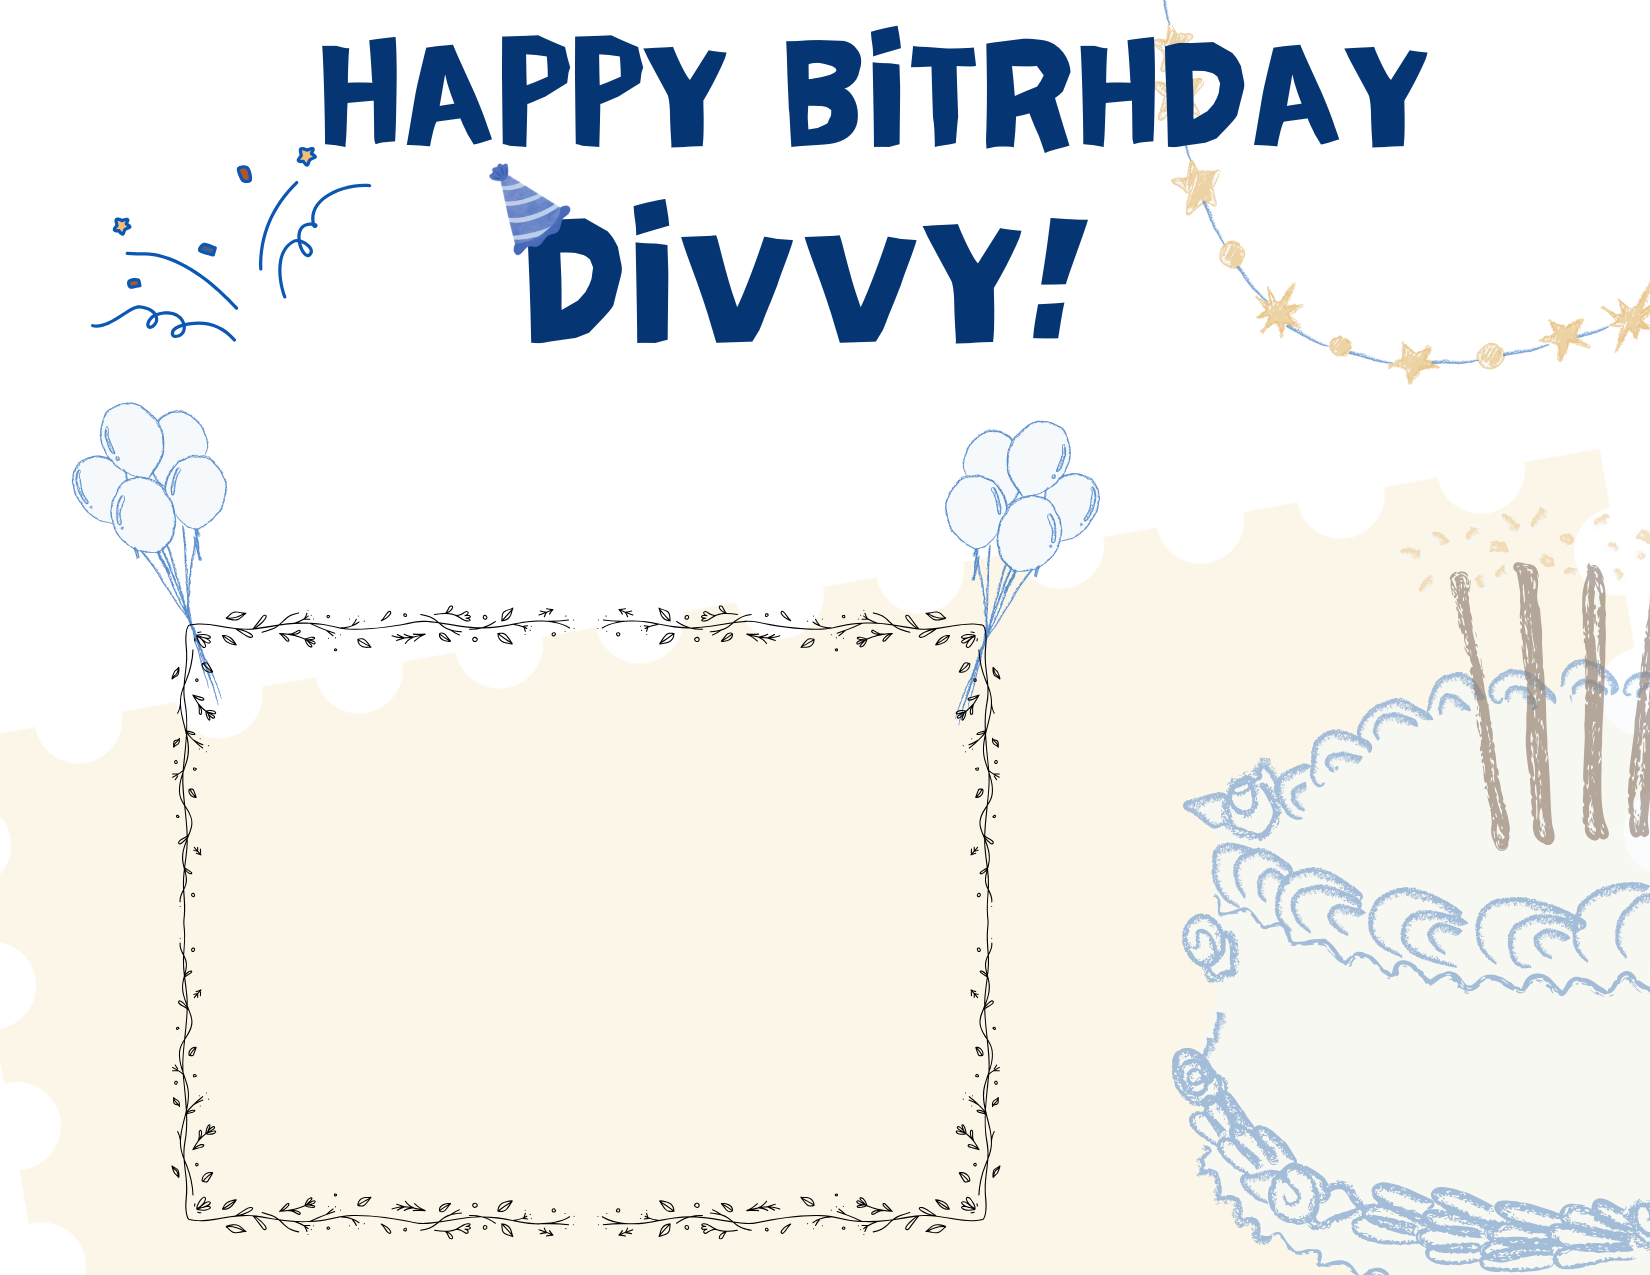
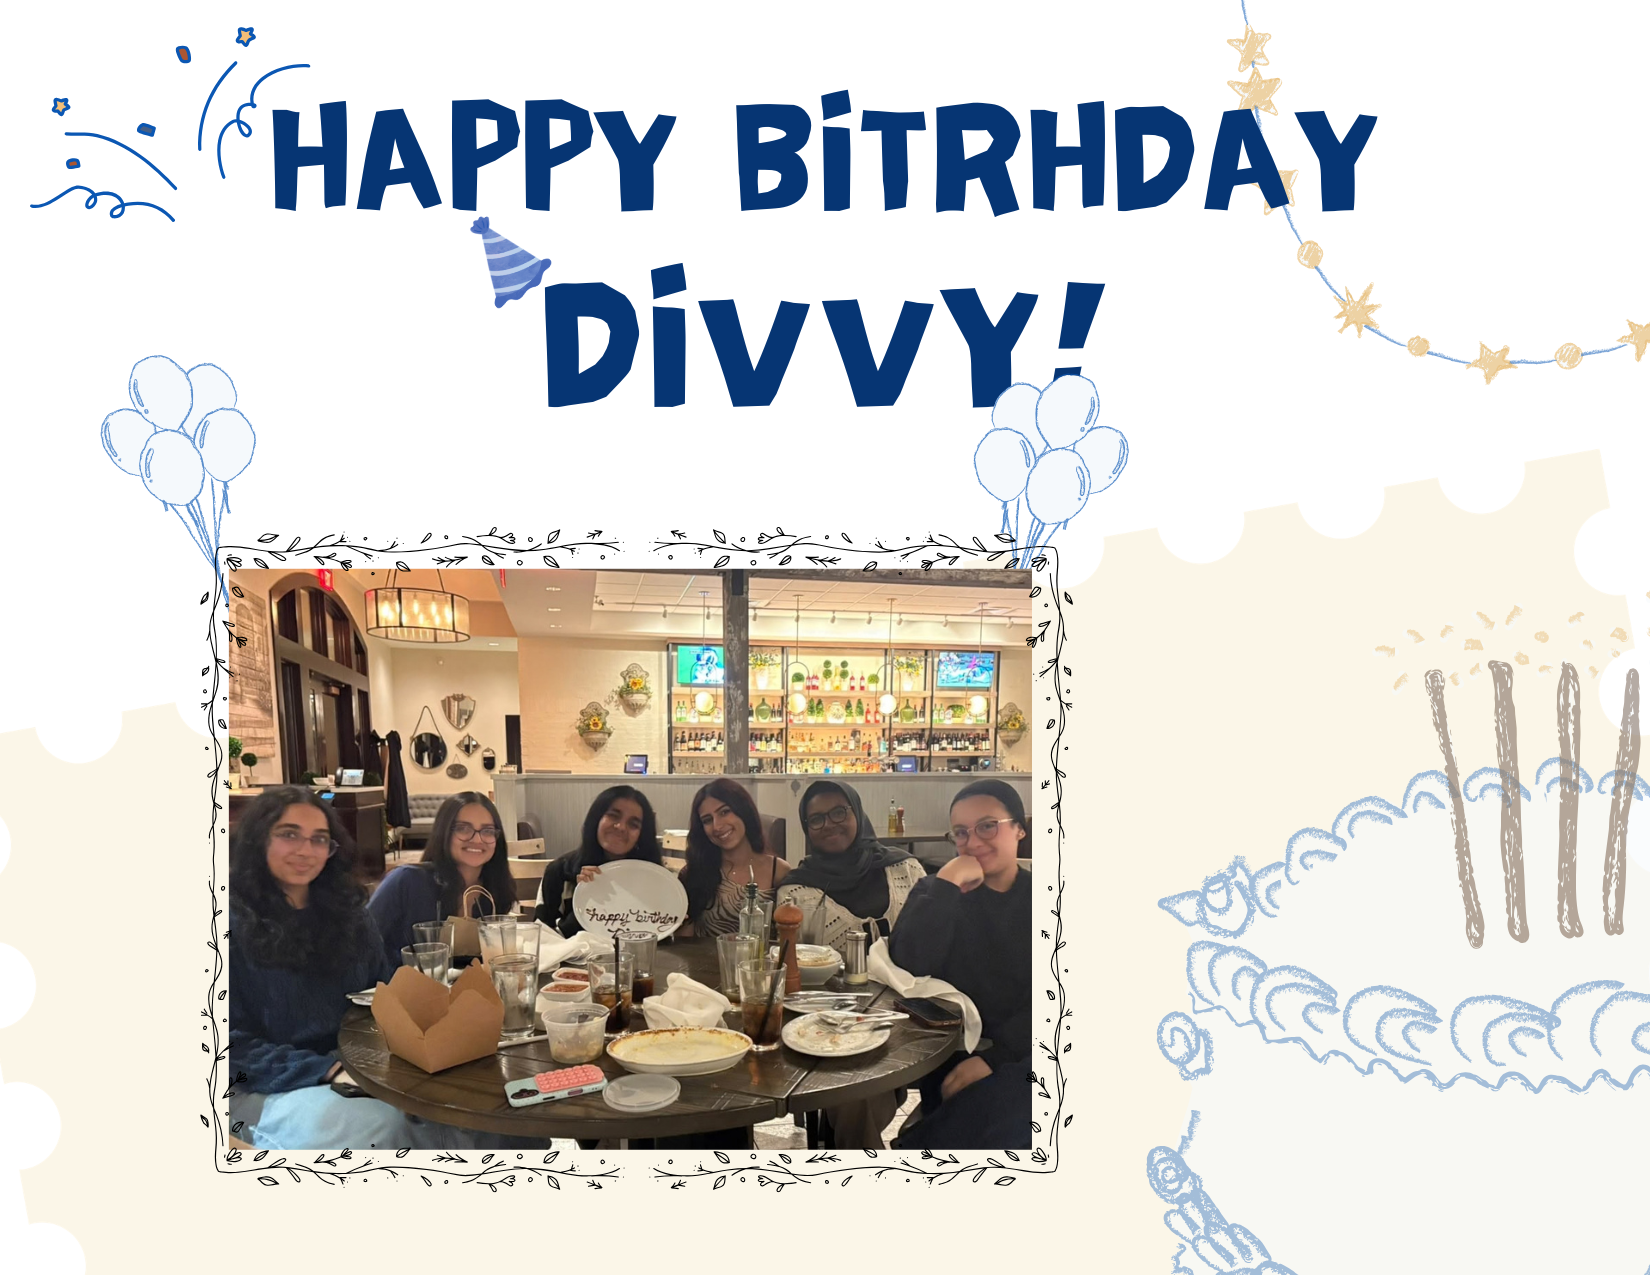
Remove deleted photo from gallery and update hero image

diff --git a/script.js b/script.js
@@ -1,7 +1,7 @@
 // ---- EDIT YOUR CONTENT HERE ----
 
 // Photos: filenames of images in the /photos folder.
-const photos = ["0612e08e-e550-438a-9470-8bc4bfece882.jpg","100_1332(1).jpeg","100_1332.jpeg","3b6f61ba-8f04-42fc-9f28-637414e5e13f.jpg","598397AB-88BC-460A-BDBD-005DABD0B943.jpg","65d5278c-2869-41fd-a927-826ab6066e4f.jpg","8fa3b1a4-a2c4-4bb7-b692-711e2fad4dd6.jpg","925a5704-8e22-4a40-8545-8e75d097e33e.jpg","959ca92c-97da-4f6b-b21f-69a0e9605272.jpg","A8A897E4-F167-41E0-8729-1B27A03BDA40.jpg","IMG_0008.JPG","IMG_0184.JPG","IMG_0248.JPG","IMG_0347.JPG","IMG_0506.JPG","IMG_0565.jpg","IMG_0566.JPG","IMG_0602.JPG","IMG_0638.JPG","IMG_1107.jpg","IMG_1197.JPG","IMG_2856.JPG","IMG_3204.jpg","IMG_3411.JPG","IMG_3461.JPG","IMG_4273.jpg","IMG_4303.jpg","IMG_4426.jpg","IMG_4745.jpg","IMG_4751.jpg","IMG_7136.JPG","IMG_8532.JPG","IMG_8585.JPG","IMG_8683.jpg","IMG_9411.JPG","IMG_9419.jpg","IMG_9712.jpg","PHOTO-2026-09-27-13-34-22(1).jpg","PHOTO-2026-09-27-13-34-22(10).jpg","PHOTO-2026-09-27-13-34-22(2).jpg","PHOTO-2026-09-27-13-34-22(3).jpg","PHOTO-2026-09-27-13-34-22(4).jpg","PHOTO-2026-09-27-13-34-22(5).jpg","PHOTO-2026-09-27-13-34-22(6).jpg","PHOTO-2026-09-27-13-34-22(7).jpg","PHOTO-2026-09-27-13-34-22(8).jpg","PHOTO-2026-09-27-13-34-22(9).jpg","PHOTO-2026-09-27-13-34-22.jpg","WhatsApp Image 2026-09-27 at 12.30.34 PM.jpeg","WhatsApp Image 2026-09-27 at 12.32.09 PM (1).jpeg","WhatsApp Image 2026-09-27 at 12.32.09 PM.jpeg","WhatsApp Image 2026-09-27 at 12.32.10 PM (1).jpeg","WhatsApp Image 2026-09-27 at 12.32.10 PM (2).jpeg","WhatsApp Image 2026-09-27 at 12.32.10 PM (3).jpeg","WhatsApp Image 2026-09-27 at 12.32.10 PM.jpeg","WhatsApp Image 2026-09-27 at 12.32.11 PM (1).jpeg","WhatsApp Image 2026-09-27 at 12.32.11 PM (2).jpeg","WhatsApp Image 2026-09-27 at 12.32.11 PM.jpeg","WhatsApp Image 2026-09-27 at 12.33.14 PM.jpeg","WhatsApp Image 2026-09-27 at 15.19.58.jpeg","WhatsApp Image 2026-09-27 at 3.24.58 PM (1).jpeg","WhatsApp Image 2026-09-27 at 3.24.58 PM (2).jpeg","WhatsApp Image 2026-09-27 at 3.24.58 PM (3).jpeg","WhatsApp Image 2026-09-27 at 3.24.58 PM (4).jpeg","WhatsApp Image 2026-09-27 at 3.24.58 PM (5).jpeg","WhatsApp Image 2026-09-27 at 3.24.58 PM (6).jpeg","WhatsApp Image 2026-09-27 at 3.24.58 PM (7).jpeg","WhatsApp Image 2026-09-27 at 3.24.58 PM (8).jpeg","WhatsApp Image 2026-09-27 at 3.24.59 PM.jpeg","b49eb874-0893-4e0a-bc43-6bcc968cca38.jpg","b5355b06-0408-4cba-b501-40b1434a34ae.jpg","c8d527ee-aa19-4167-bad9-56caf6a64add.jpg","daddc9c9-23e6-4235-a6d2-a55511e1d873.jpg"];
+const photos = ["0612e08e-e550-438a-9470-8bc4bfece882.jpg","100_1332(1).jpeg","100_1332.jpeg","3b6f61ba-8f04-42fc-9f28-637414e5e13f.jpg","598397AB-88BC-460A-BDBD-005DABD0B943.jpg","8fa3b1a4-a2c4-4bb7-b692-711e2fad4dd6.jpg","925a5704-8e22-4a40-8545-8e75d097e33e.jpg","959ca92c-97da-4f6b-b21f-69a0e9605272.jpg","A8A897E4-F167-41E0-8729-1B27A03BDA40.jpg","IMG_0008.JPG","IMG_0184.JPG","IMG_0248.JPG","IMG_0347.JPG","IMG_0506.JPG","IMG_0565.jpg","IMG_0566.JPG","IMG_0602.JPG","IMG_0638.JPG","IMG_1107.jpg","IMG_1197.JPG","IMG_2856.JPG","IMG_3204.jpg","IMG_3411.JPG","IMG_3461.JPG","IMG_4273.jpg","IMG_4303.jpg","IMG_4426.jpg","IMG_4745.jpg","IMG_4751.jpg","IMG_7136.JPG","IMG_8532.JPG","IMG_8585.JPG","IMG_8683.jpg","IMG_9411.JPG","IMG_9419.jpg","IMG_9712.jpg","PHOTO-2026-09-27-13-34-22(1).jpg","PHOTO-2026-09-27-13-34-22(10).jpg","PHOTO-2026-09-27-13-34-22(2).jpg","PHOTO-2026-09-27-13-34-22(3).jpg","PHOTO-2026-09-27-13-34-22(4).jpg","PHOTO-2026-09-27-13-34-22(5).jpg","PHOTO-2026-09-27-13-34-22(6).jpg","PHOTO-2026-09-27-13-34-22(7).jpg","PHOTO-2026-09-27-13-34-22(8).jpg","PHOTO-2026-09-27-13-34-22(9).jpg","PHOTO-2026-09-27-13-34-22.jpg","WhatsApp Image 2026-09-27 at 12.30.34 PM.jpeg","WhatsApp Image 2026-09-27 at 12.32.09 PM (1).jpeg","WhatsApp Image 2026-09-27 at 12.32.09 PM.jpeg","WhatsApp Image 2026-09-27 at 12.32.10 PM (1).jpeg","WhatsApp Image 2026-09-27 at 12.32.10 PM (2).jpeg","WhatsApp Image 2026-09-27 at 12.32.10 PM (3).jpeg","WhatsApp Image 2026-09-27 at 12.32.10 PM.jpeg","WhatsApp Image 2026-09-27 at 12.32.11 PM (1).jpeg","WhatsApp Image 2026-09-27 at 12.32.11 PM (2).jpeg","WhatsApp Image 2026-09-27 at 12.32.11 PM.jpeg","WhatsApp Image 2026-09-27 at 12.33.14 PM.jpeg","WhatsApp Image 2026-09-27 at 15.19.58.jpeg","WhatsApp Image 2026-09-27 at 3.24.58 PM (1).jpeg","WhatsApp Image 2026-09-27 at 3.24.58 PM (2).jpeg","WhatsApp Image 2026-09-27 at 3.24.58 PM (3).jpeg","WhatsApp Image 2026-09-27 at 3.24.58 PM (4).jpeg","WhatsApp Image 2026-09-27 at 3.24.58 PM (5).jpeg","WhatsApp Image 2026-09-27 at 3.24.58 PM (6).jpeg","WhatsApp Image 2026-09-27 at 3.24.58 PM (7).jpeg","WhatsApp Image 2026-09-27 at 3.24.58 PM (8).jpeg","WhatsApp Image 2026-09-27 at 3.24.59 PM.jpeg","b49eb874-0893-4e0a-bc43-6bcc968cca38.jpg","b5355b06-0408-4cba-b501-40b1434a34ae.jpg","c8d527ee-aa19-4167-bad9-56caf6a64add.jpg","daddc9c9-23e6-4235-a6d2-a55511e1d873.jpg"];
 
 // Videos: use "file" for a video you host in a /videos folder, or "embed" for a YouTube/Drive embed link.
 const videos = [
